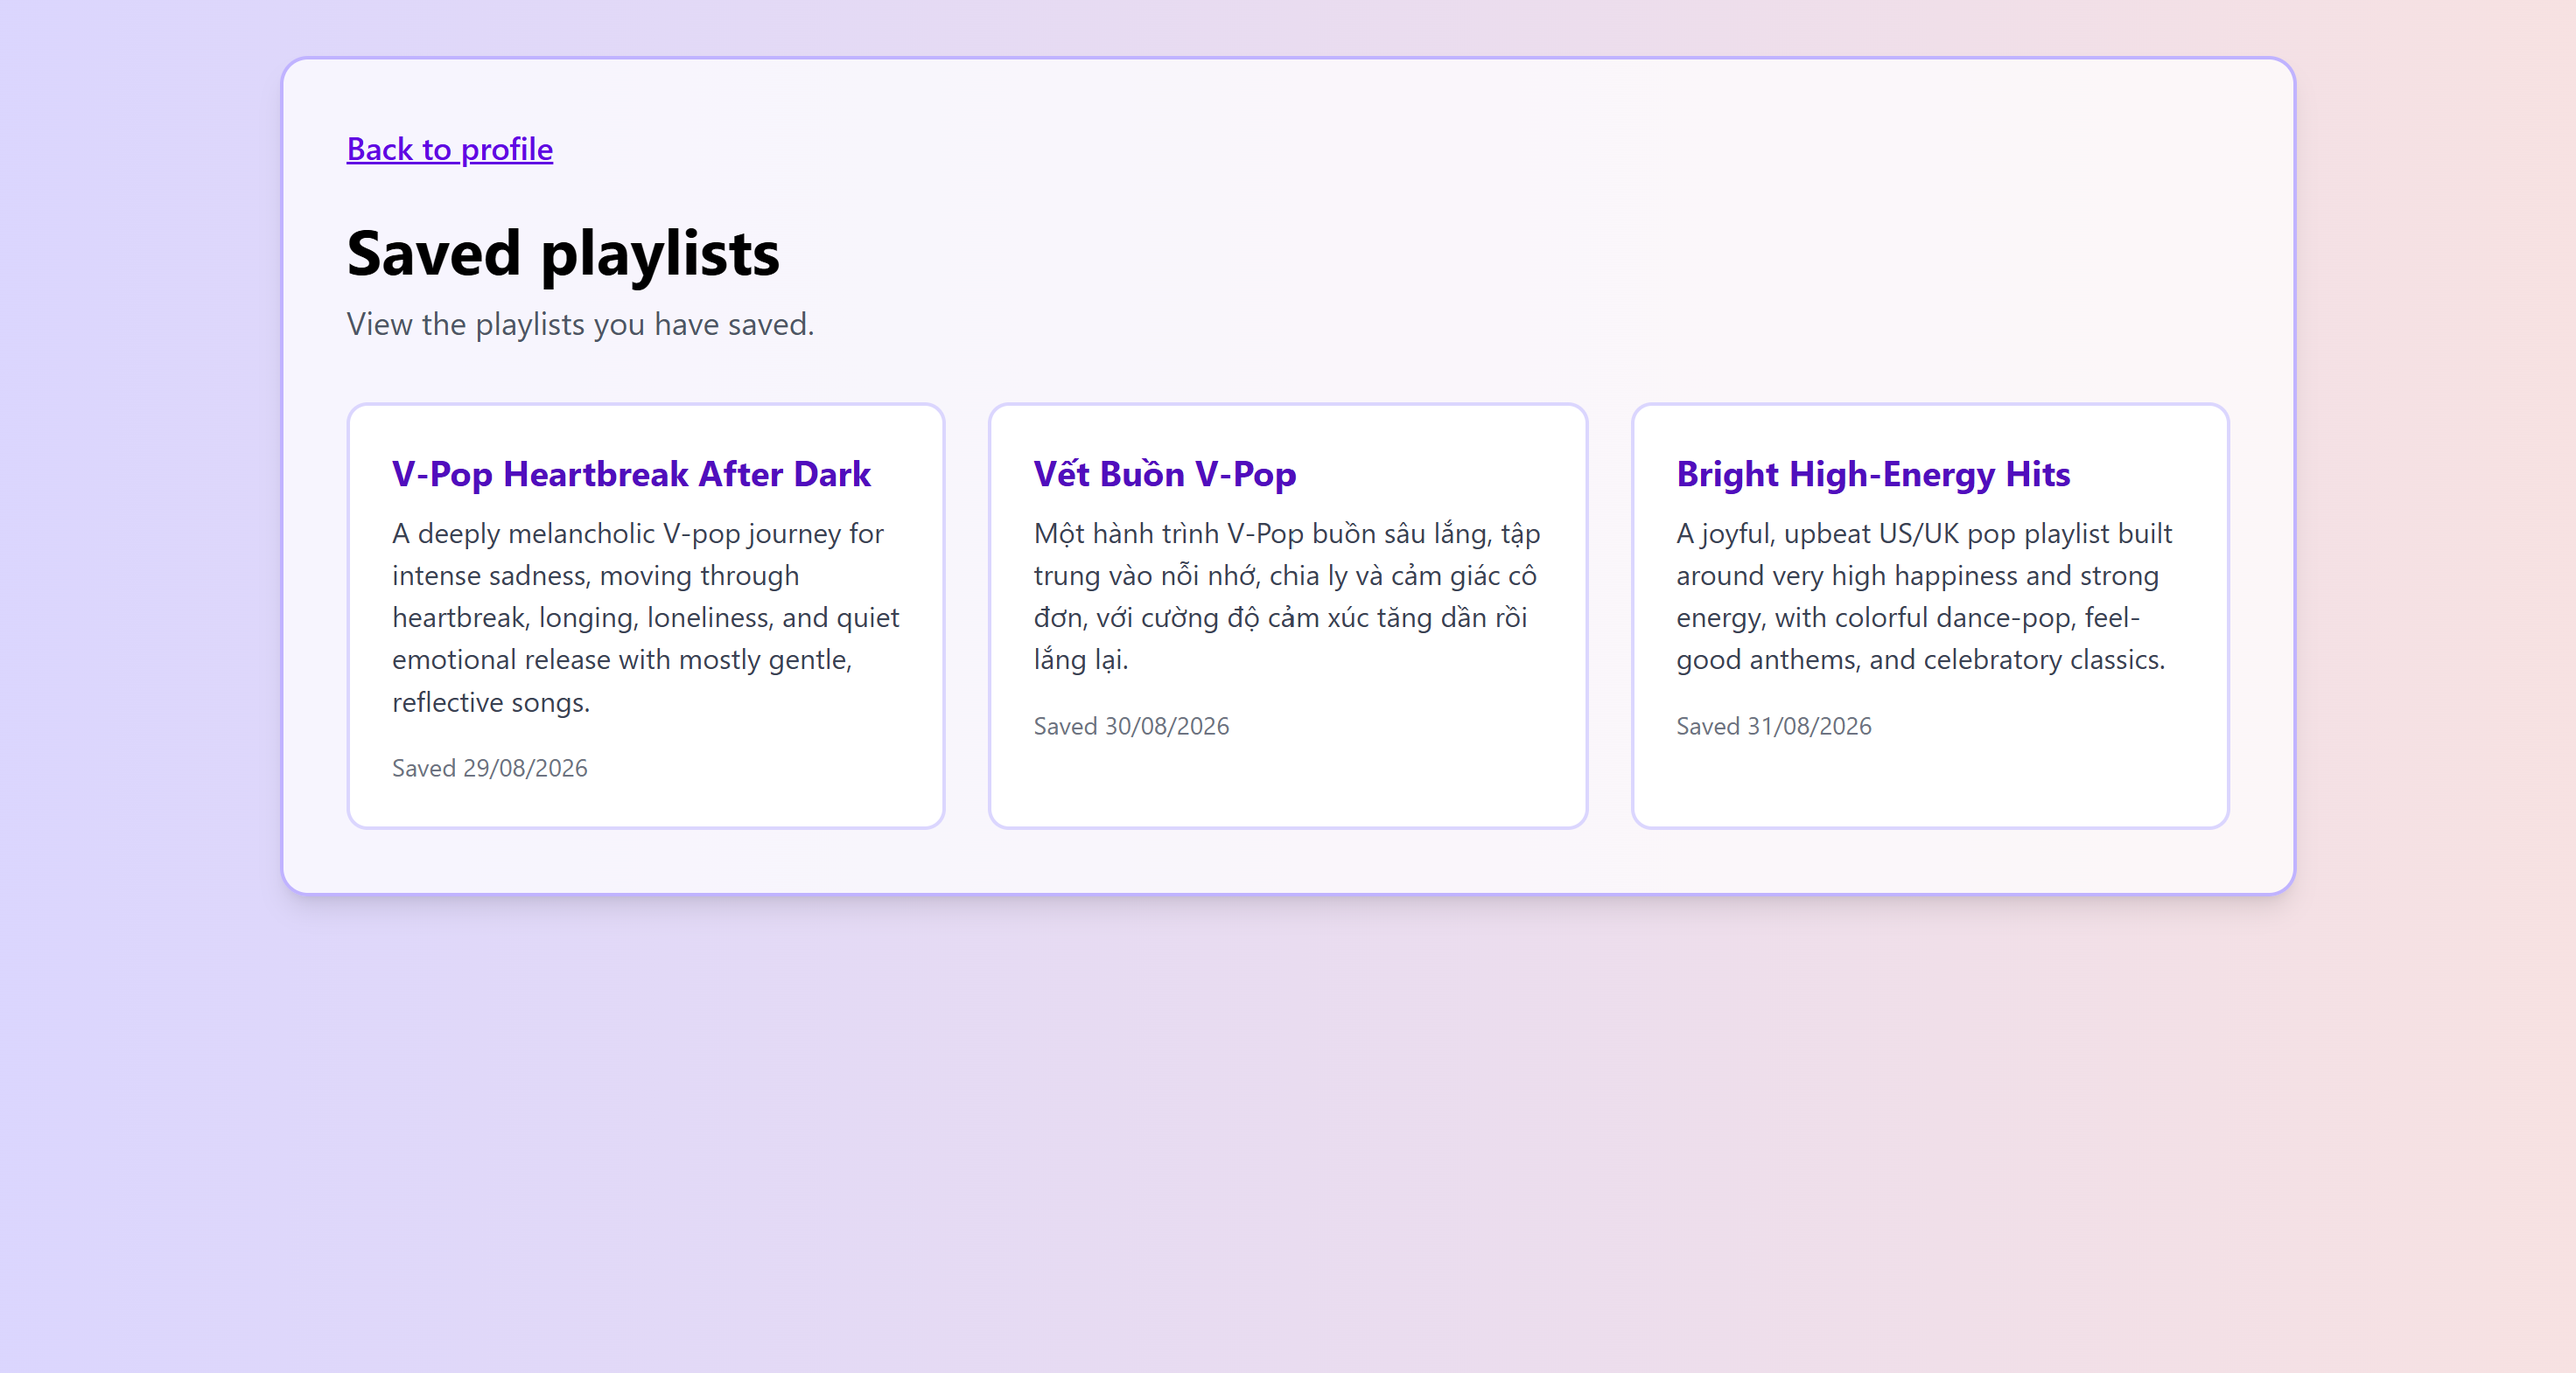
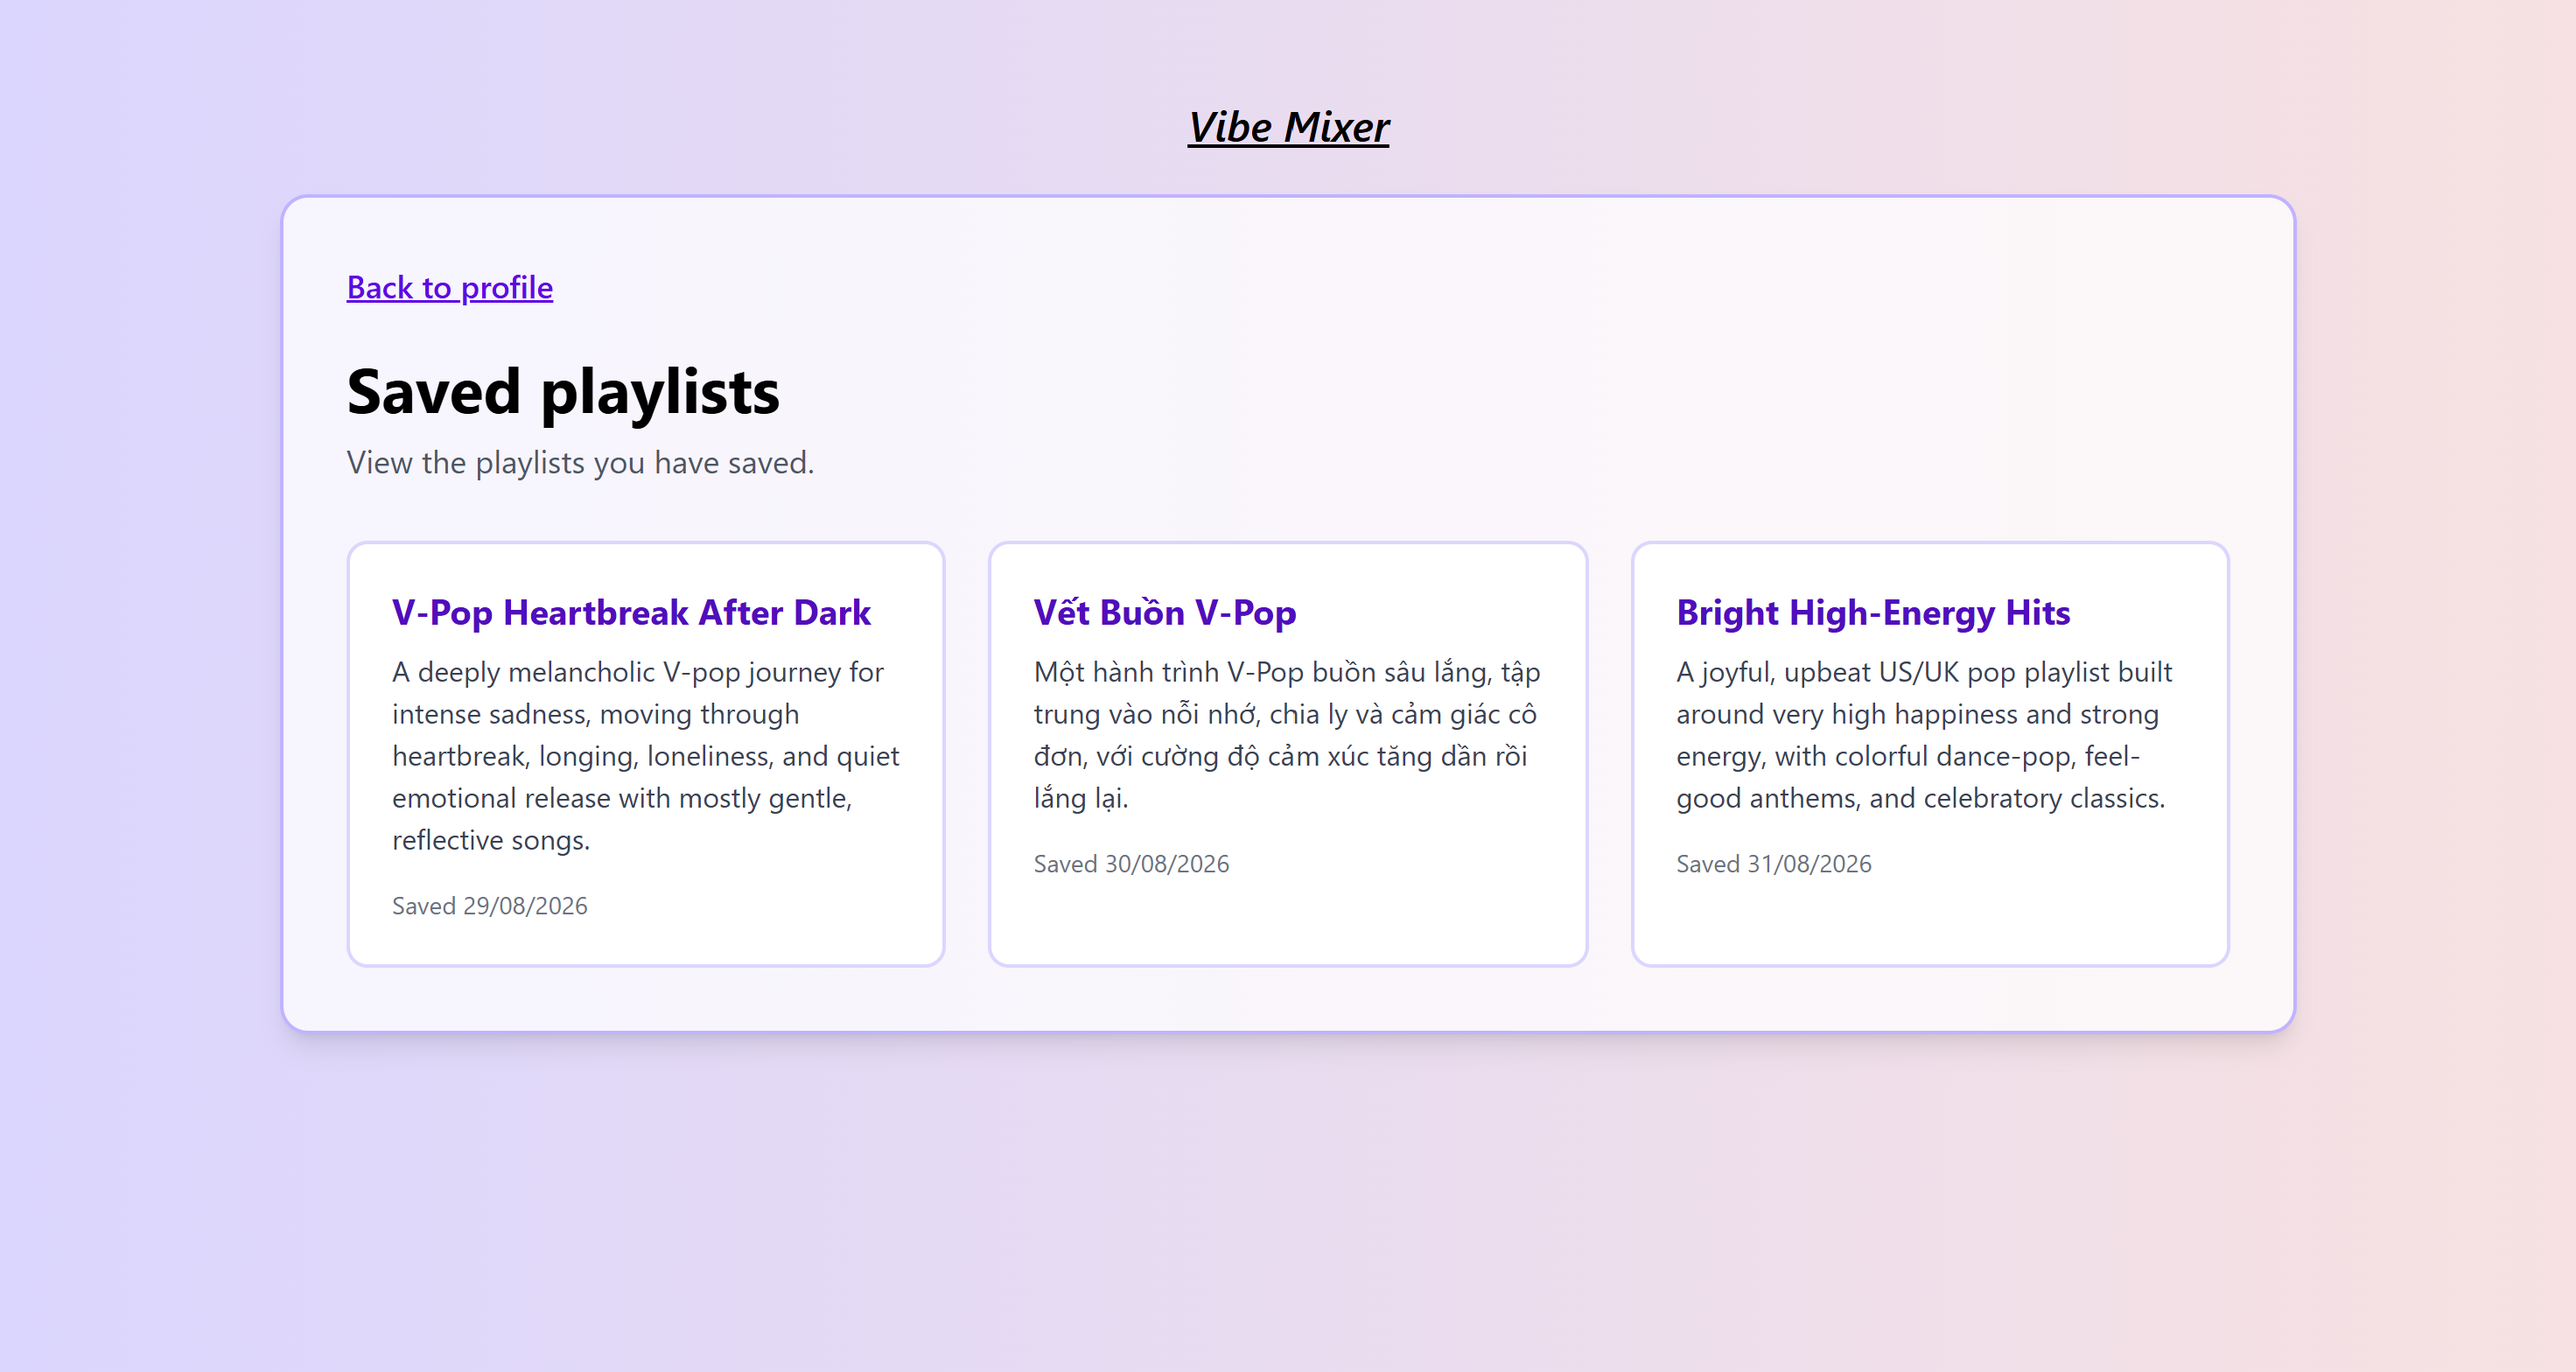
Updated README file

Changed region(s): [[0.0938, 0.0312, 0.9062, 0.7812]]

diff --git a/README.md b/README.md
@@ -42,6 +42,9 @@ Vibe Mixer is a full-stack web application that generates music playlists based 
 
 ![Saved playlists page](vm-frontend/src/assets/demo/SavedPlaylistPage.png)
 
+###
+![Playlist details page](vm-frontend/src/assets/demo/PlaylistDetailsPage.png)
+
 
 ## Technology Stack
 
